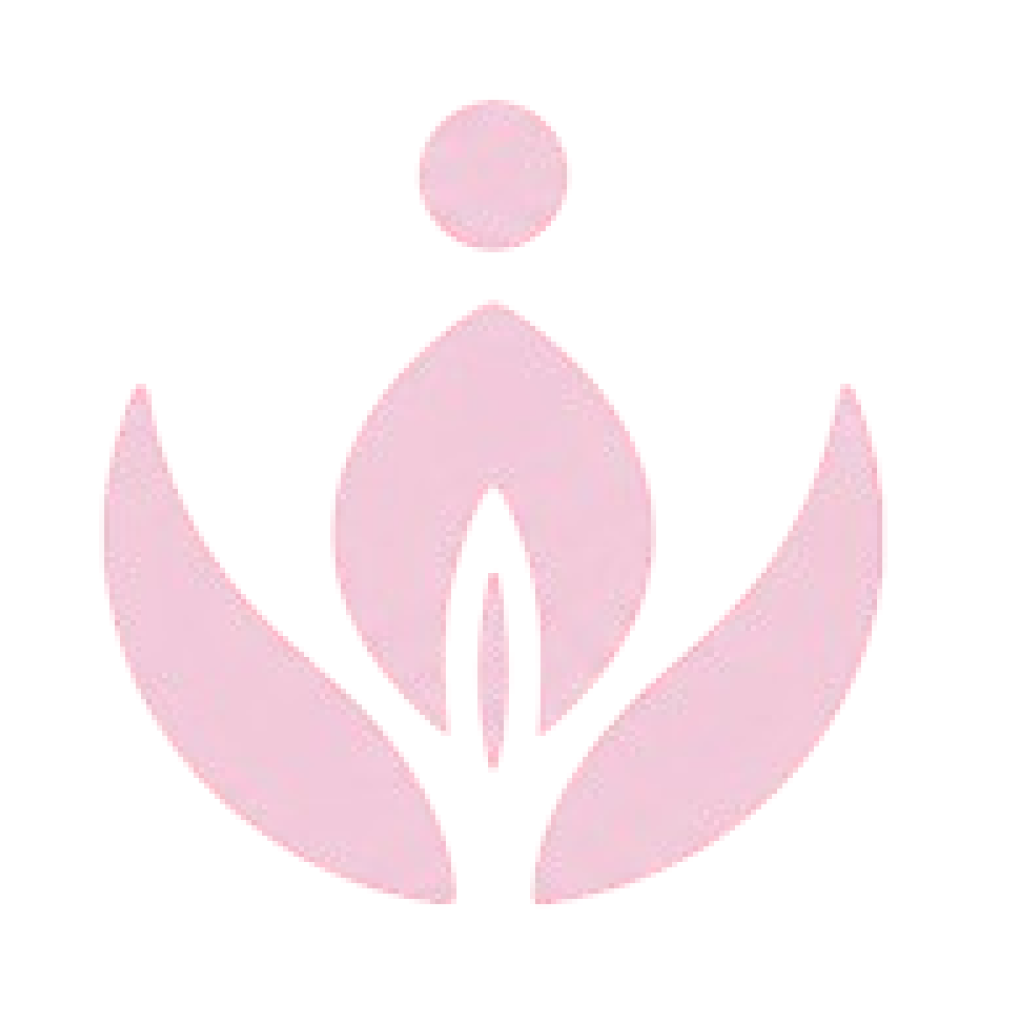
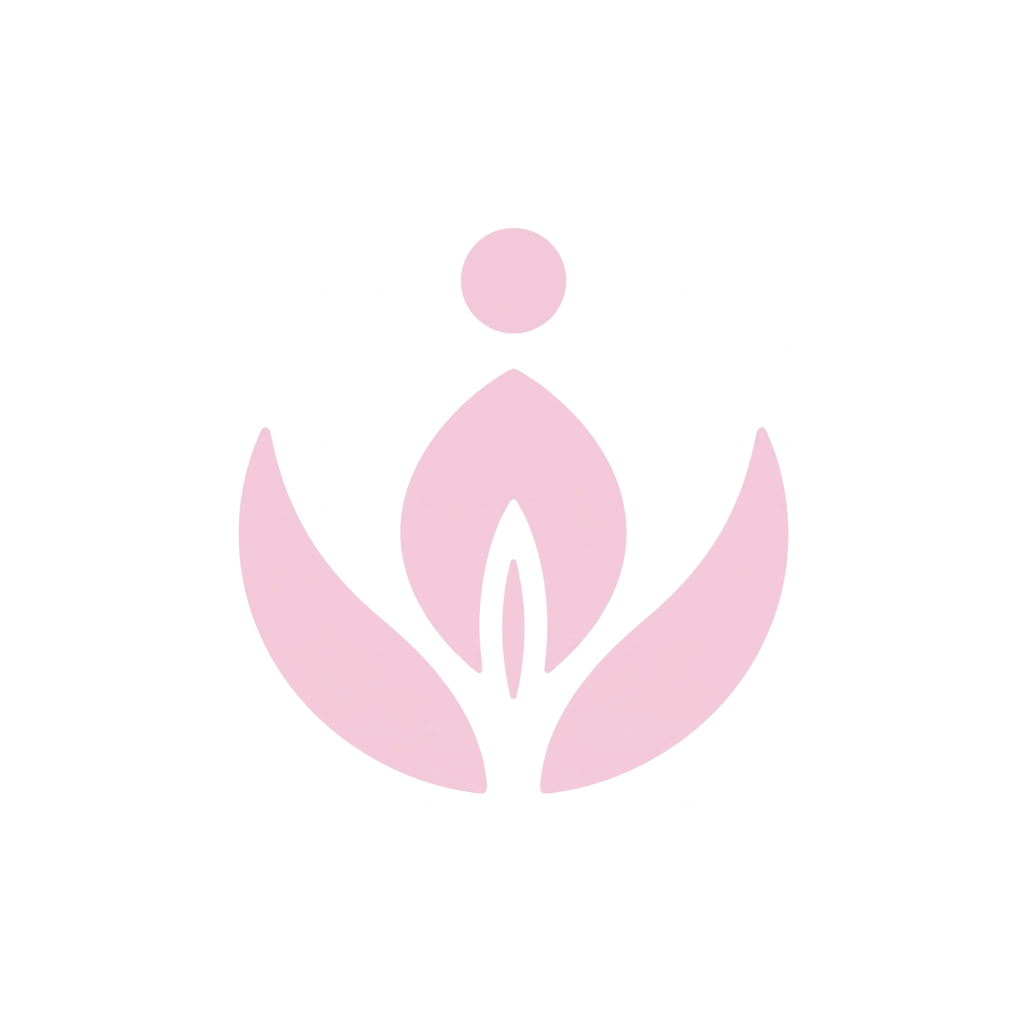
Atualizando Icone e Splash

Changed region(s): [[0.0938, 0.0938, 0.875, 0.9062]]

diff --git a/app/_layout.tsx b/app/_layout.tsx
@@ -15,7 +15,7 @@ export default function RootLayout() {
   useEffect(() => {
     const prepareApp = async () => {
       try {
-        await new Promise((resolve) => setTimeout(resolve, 2000));
+        await new Promise((resolve) => setTimeout(resolve, 4000));
       } catch (e) {
         console.warn(e);
       } finally {
